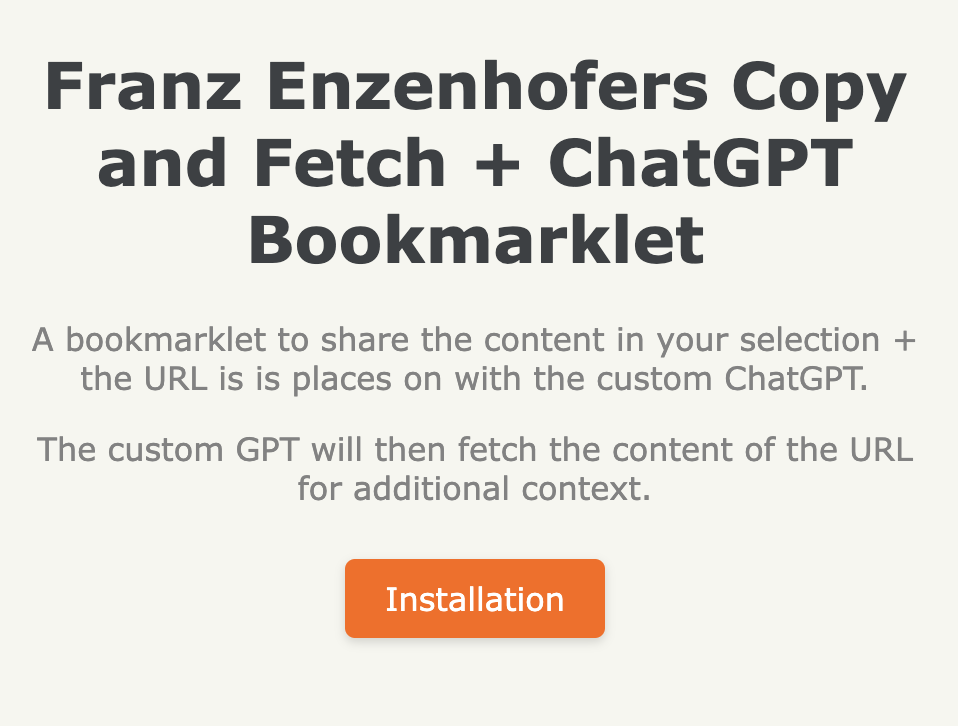
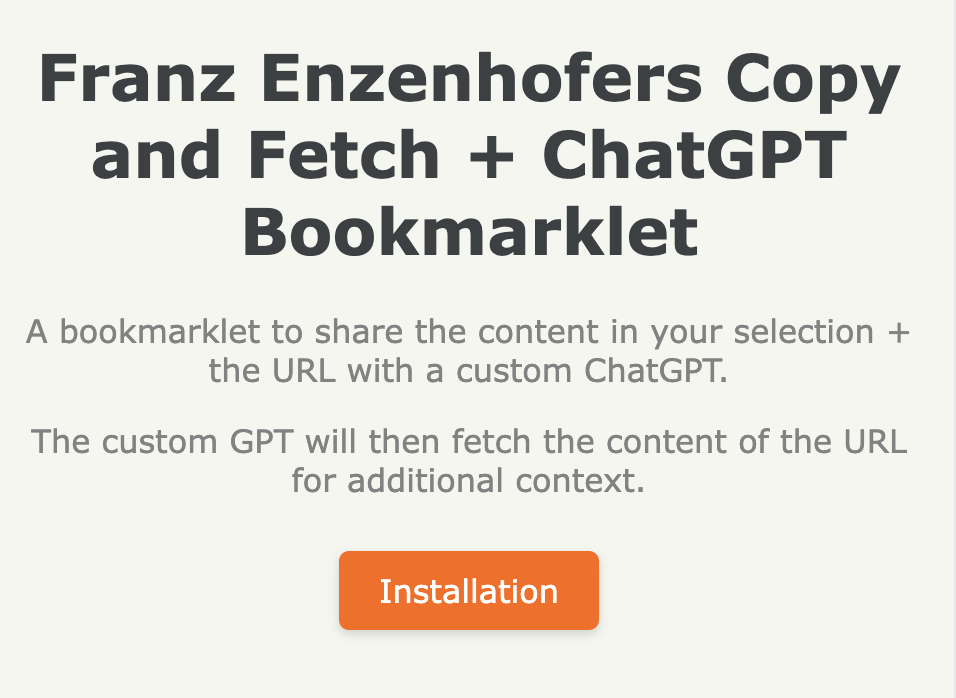
new image

diff --git a/index.html b/index.html
@@ -134,7 +134,7 @@ a {
 <div class="container">
   <header>
     <h1>Franz Enzenhofers Copy and Fetch + ChatGPT Bookmarklet</h1>
-    <p>A bookmarklet to share the content in your selection + the URL is is places on with the custom ChatGPT.</p>
+    <p>A bookmarklet to share the content in your selection + the URL with a custom ChatGPT.</p>
     <p>The custom GPT will then fetch the content of the URL for additional context.</p>
     <center><a href="#installation" class="button-style">Installation</a></center>
   </header>
